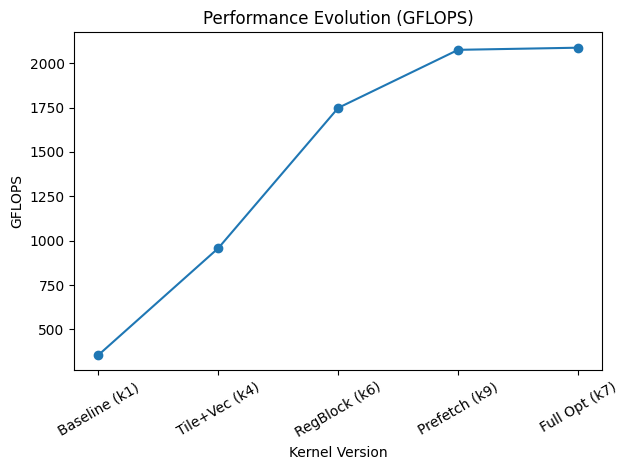
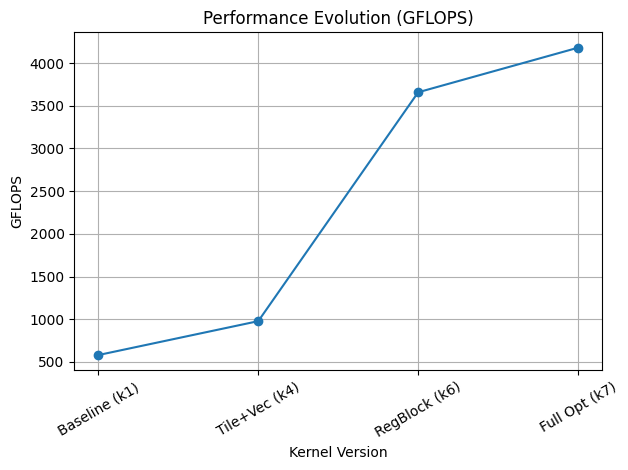
update performance graphs

diff --git a/docs/rapport.md b/docs/rapport.md
@@ -73,23 +73,7 @@ S'appuyer uniquement sur la mémoire locale entraîne tout de même une certaine
 ![Register Blocking Performance](../assets/A-2-amal-register-blocking-highlighted.png)
 *Figure 6 : Amélioration des performances grâce au tuilage par registres.*
 
-### 4. Quatrième Optimisation : Software Pre-fetching (`kernel_9.cl`)
-**Explication :**
-Pendant que le kernel effectue les calculs sur la tuile courante, les threads chargent déjà la tuile suivante dans la mémoire locale. Cette superposition permet de cacher la latence des instructions mémoire derrière les calculs.
-
-Nous utilisons une approche de **double buffering**, allouant deux fois plus de mémoire locale pour stocker à la fois la tuile courante et la tuile suivante (`Asub[2][...]` et `Bsub[2][...]`). L'algorithme se structure alors ainsi :
-1. Avant le début de la boucle principale, charger la toute première tuile dans les variables locales et opérer une première synchronisation.
-2. Au sein de la boucle principale, charger immédiatement la tuile suivante en s'appuyant sur l'indice du tampon alterné.
-3. Effectuer la multiplication matricielle et les calculs d'accumulation sur la tuile préalablement récupérée, ce qui permet l'overlap asynchrone des deux traitements.
-
-**Performances :**
-- Temps d'exécution : ~5.26 secondes
-- Débit : **4180 GFLOPS**
-
-![Prefetching Kernel Performance](../assets/A-prefetching-highlighted.png)
-*Figure 7 : Résultats de performance pour le kernel utilisant le prefetching.*
-
-### 5. Kernel Entièrement Optimisé (`kernel_7.cl`)
+### 4. Kernel Entièrement Optimisé (`kernel_7.cl`)
 **Explication :**
 En combinant l'ensemble des approches précédentes, ce kernel exploite le **Tuilage par Workgroup** en mémoire locale, couplé avec des **chargements élargis (`float4`)** et un **Tuilage par Registres en 2D** (`8x8 éléments calculés par thread`). Les chargements vectorisés diminuent le nombre de transactions vers la mémoire locale, tandis que l'utilisation des registres permet de maintenir les pipelines de calcul occupés sans avoir à attendre les réponses du cache. Cette combinaison synergique offre un parallélisme optimal au niveau des instructions et permet une efficience maximale des pipelines du GPU.
 
